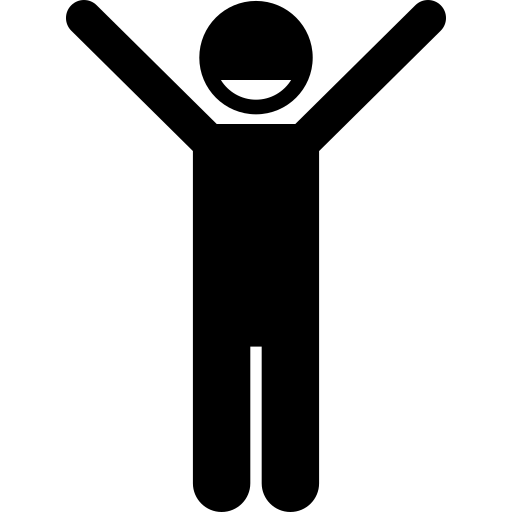
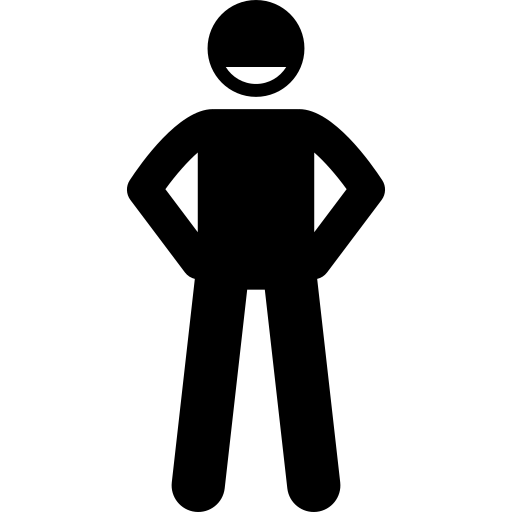
Added remaining moods. Added custom hover effect. Modified Dashboard styling.

diff --git a/components/Dashboard.tsx b/components/Dashboard.tsx
@@ -1,5 +1,6 @@
 import { atmaSans, nunitoSans } from "@/fonts";
 import { symptoms } from "@/helpers";
+import Calendar from "@/components/Calendar";
 
 type Statuses = {
   numberOfDays: { label: string; value: number };
@@ -50,23 +51,29 @@ export default function Dashboard() {
         <span className={"text-gradient " + atmaSans.className}> feel </span>
         today?
       </h4>
-      <div className="grid grid-cols-2 md:grid-cols-5 gap-4">
+      <div className="grid grid-cols-2 sm:grid-cols-5 gap-4">
         {Object.values(symptoms).map((symptom, i) => (
           <button
             key={i}
-            className="flex flex-col items-center justify-center p-4 rounded-md relative group cursor-pointer border-2 font-medium border-black text-black hover:bg-yellow-400"
+            className="flex flex-col gap-2 items-center justify-center p-4 rounded-2xl relative group cursor-pointer border-2 font-medium border-black text-black hover:bg-yellow-400 custom-effect"
           >
             <img
               src={`Symptoms/${symptom.icon}.png`}
               alt={symptom.label}
               className="w-16 h-16 object-cover mb-2"
             />
-            <p className={"text-center " + nunitoSans.className}>
+            <p
+              className={
+                "text-center text-xs sm:text-sm md:text-base " +
+                nunitoSans.className
+              }
+            >
               {symptom.label}
             </p>
           </button>
         ))}
       </div>
+      <Calendar />
     </div>
   );
 }

diff --git a/app/globals.css b/app/globals.css
@@ -7,3 +7,13 @@
     -webkit-background-clip: text;
     -webkit-text-fill-color: transparent;
 }
+
+.custom-effect {
+    background: #ffffff;
+    transition: background 2s, transform 0.3s ease;
+}
+
+.custom-effect:hover {
+    transform: translate(3px, 3px);
+    background: linear-gradient(180deg, #ffdb00, transparent) #ffc100;
+}
